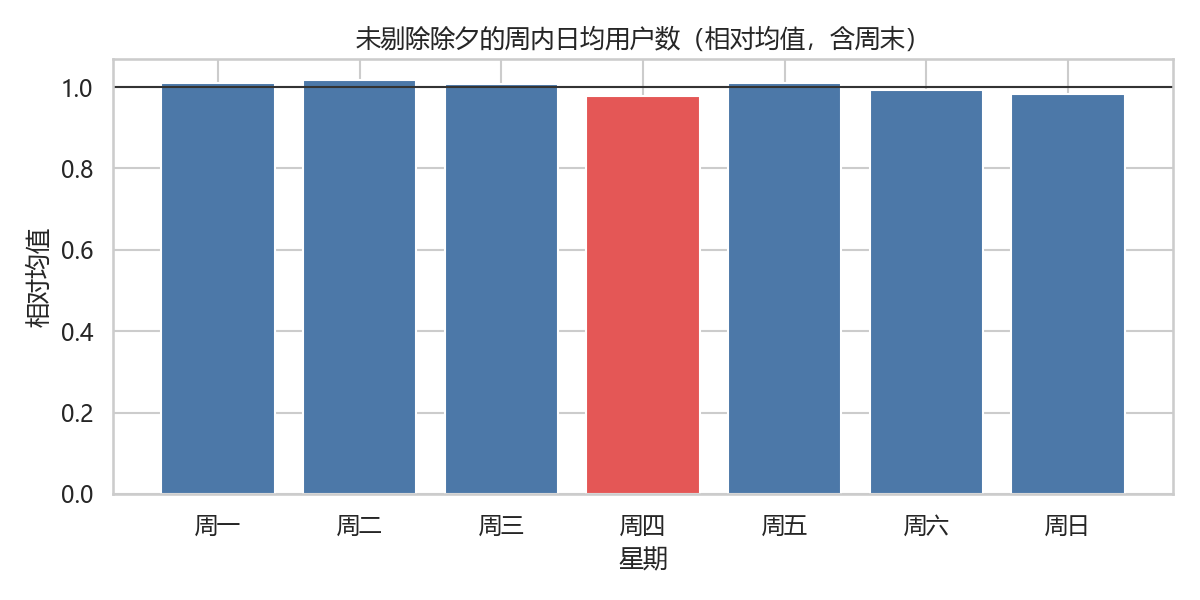
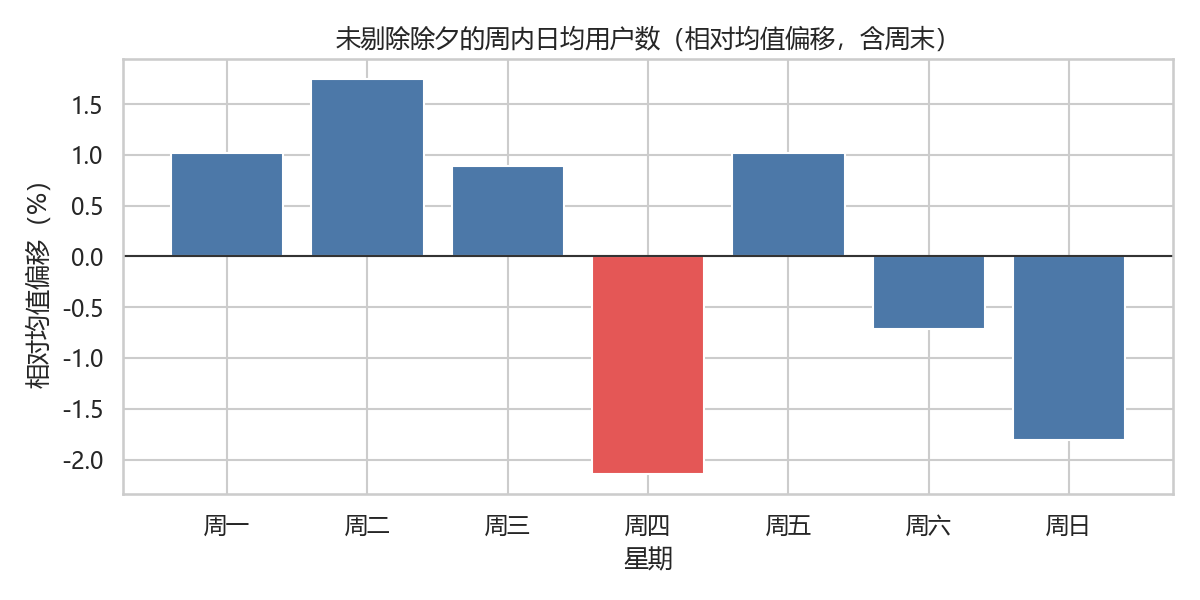
reactor: 相对均值

diff --git a/section7_conclusion.py b/section7_conclusion.py
@@ -337,37 +337,41 @@ def main() -> None:
     user_excl_ratio = weekday_user_excl / user_excl_base if user_excl_base else weekday_user_excl
     flow_all_ratio = weekday_flow_all / flow_all_base if flow_all_base else weekday_flow_all
     user_all_ratio = weekday_user_all / user_all_base if user_all_base else weekday_user_all
+    flow_excl_rel = (flow_excl_ratio - 1) * 100
+    user_excl_rel = (user_excl_ratio - 1) * 100
+    flow_all_rel = (flow_all_ratio - 1) * 100
+    user_all_rel = (user_all_ratio - 1) * 100
 
     plt.figure(figsize=(8, 4))
-    plt.bar(weekday_labels_full, flow_excl_ratio.values, color=flow_colors)
-    plt.axhline(1.0, color="#333333", linewidth=1)
-    plt.title("\u5264\u9664\u9664\u5915\u540e\u5468\u5185\u65e5\u5747\u6d41\u91cf\uff08\u76f8\u5bf9\u5747\u503c\uff0c\u542b\u5468\u672b\uff09")
+    plt.bar(weekday_labels_full, flow_excl_rel.values, color=flow_colors)
+    plt.axhline(0.0, color="#333333", linewidth=1)
+    plt.title("\u5264\u9664\u9664\u5915\u540e\u5468\u5185\u65e5\u5747\u6d41\u91cf\uff08\u76f8\u5bf9\u5747\u503c\u504f\u79fb\uff0c\u542b\u5468\u672b\uff09")
     plt.xlabel("\u661f\u671f")
-    plt.ylabel("\u76f8\u5bf9\u5747\u503c")
+    plt.ylabel("\u76f8\u5bf9\u5747\u503c\u504f\u79fb\uff08%\uff09")
     save_fig("fig17_weekday_mean_flow_excl_chuxi.png")
 
     plt.figure(figsize=(8, 4))
-    plt.bar(weekday_labels_full, user_excl_ratio.values, color=user_colors)
-    plt.axhline(1.0, color="#333333", linewidth=1)
-    plt.title("\u5264\u9664\u9664\u5915\u540e\u5468\u5185\u65e5\u5747\u7528\u6237\u6570\uff08\u76f8\u5bf9\u5747\u503c\uff0c\u542b\u5468\u672b\uff09")
+    plt.bar(weekday_labels_full, user_excl_rel.values, color=user_colors)
+    plt.axhline(0.0, color="#333333", linewidth=1)
+    plt.title("\u5264\u9664\u9664\u5915\u540e\u5468\u5185\u65e5\u5747\u7528\u6237\u6570\uff08\u76f8\u5bf9\u5747\u503c\u504f\u79fb\uff0c\u542b\u5468\u672b\uff09")
     plt.xlabel("\u661f\u671f")
-    plt.ylabel("\u76f8\u5bf9\u5747\u503c")
+    plt.ylabel("\u76f8\u5bf9\u5747\u503c\u504f\u79fb\uff08%\uff09")
     save_fig("fig18_weekday_mean_user_excl_chuxi.png")
 
     plt.figure(figsize=(8, 4))
-    plt.bar(weekday_labels_full, flow_all_ratio.values, color=flow_colors)
-    plt.axhline(1.0, color="#333333", linewidth=1)
-    plt.title("\u672a\u5254\u9664\u9664\u5915\u7684\u5468\u5185\u65e5\u5747\u6d41\u91cf\uff08\u76f8\u5bf9\u5747\u503c\uff0c\u542b\u5468\u672b\uff09")
+    plt.bar(weekday_labels_full, flow_all_rel.values, color=flow_colors)
+    plt.axhline(0.0, color="#333333", linewidth=1)
+    plt.title("\u672a\u5254\u9664\u9664\u5915\u7684\u5468\u5185\u65e5\u5747\u6d41\u91cf\uff08\u76f8\u5bf9\u5747\u503c\u504f\u79fb\uff0c\u542b\u5468\u672b\uff09")
     plt.xlabel("\u661f\u671f")
-    plt.ylabel("\u76f8\u5bf9\u5747\u503c")
+    plt.ylabel("\u76f8\u5bf9\u5747\u503c\u504f\u79fb\uff08%\uff09")
     save_fig("fig19_weekday_mean_flow_with_chuxi.png")
 
     plt.figure(figsize=(8, 4))
-    plt.bar(weekday_labels_full, user_all_ratio.values, color=user_colors)
-    plt.axhline(1.0, color="#333333", linewidth=1)
-    plt.title("\u672a\u5254\u9664\u9664\u5915\u7684\u5468\u5185\u65e5\u5747\u7528\u6237\u6570\uff08\u76f8\u5bf9\u5747\u503c\uff0c\u542b\u5468\u672b\uff09")
+    plt.bar(weekday_labels_full, user_all_rel.values, color=user_colors)
+    plt.axhline(0.0, color="#333333", linewidth=1)
+    plt.title("\u672a\u5254\u9664\u9664\u5915\u7684\u5468\u5185\u65e5\u5747\u7528\u6237\u6570\uff08\u76f8\u5bf9\u5747\u503c\u504f\u79fb\uff0c\u542b\u5468\u672b\uff09")
     plt.xlabel("\u661f\u671f")
-    plt.ylabel("\u76f8\u5bf9\u5747\u503c")
+    plt.ylabel("\u76f8\u5bf9\u5747\u503c\u504f\u79fb\uff08%\uff09")
     save_fig("fig20_weekday_mean_user_with_chuxi.png")
 
     scene_records = []

diff --git a/reportB.md b/reportB.md
@@ -730,22 +730,22 @@ Type画像
 ![周四用户剔除对比](report_assets/section7/fig14_thursday_exclusion_user.png)
 
 ![剔除除夕后周内相对均值流量](report_assets/section7/fig17_weekday_mean_flow_excl_chuxi.png)
-含义：该图展示剔除除夕后的周一至周日相对均值流量对比（含周末，为当日/周均）。
+含义：该图展示剔除除夕后的周一至周日日均流量相对均值偏移（含周末，为当日/周均-1）。
 意义：用于判断周四在排除除夕后是否回到周均水平。
 用法：作为“周四偏低是否为统计陷阱”的补充证据。
 
 ![剔除除夕后周内相对均值用户](report_assets/section7/fig18_weekday_mean_user_excl_chuxi.png)
-含义：该图展示剔除除夕后的周一至周日相对均值用户数对比（含周末，为当日/周均）。
+含义：该图展示剔除除夕后的周一至周日日均用户数相对均值偏移（含周末，为当日/周均-1）。
 意义：检验周四用户规模是否仍低于周均基线。
 用法：辅助判断周四偏低是接入减少还是结构性偏弱。
 
 ![未剔除除夕的周内相对均值流量](report_assets/section7/fig19_weekday_mean_flow_with_chuxi.png)
-含义：该图展示未剔除除夕的周一至周日相对均值流量对比（含周末，为当日/周均）。
+含义：该图展示未剔除除夕的周一至周日日均流量相对均值偏移（含周末，为当日/周均-1）。
 意义：与剔除版本对比，观察除夕对周四位置的拉低效应。
 用法：用于验证“周四偏低”是否由特定日期导致。
 
 ![未剔除除夕的周内相对均值用户](report_assets/section7/fig20_weekday_mean_user_with_chuxi.png)
-含义：该图展示未剔除除夕的周一至周日相对均值用户数对比（含周末，为当日/周均）。
+含义：该图展示未剔除除夕的周一至周日日均用户数相对均值偏移（含周末，为当日/周均-1）。
 意义：与剔除版本对比，观察周四用户规模是否因除夕被压低。
 用法：辅助判断周四偏低是否属于统计口径误差。
 
